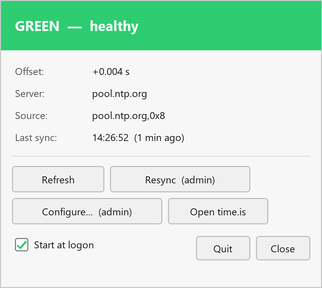
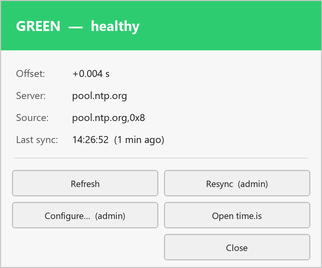
v1.2.0: update checker + auto-check, Start-at-logon in menu (default on), panel cleanup/alignment

Changed region(s): [[0.0311, 0.5672, 0.9627, 0.9851], [0.0, 0.0597, 1.0, 0.5373], [0.2174, 0.2388, 0.5901, 0.5373]]

diff --git a/make_panel_img.py b/make_panel_img.py
@@ -2,7 +2,7 @@
 from PIL import Image, ImageDraw, ImageFont
 
 S = 3                      # supersample
-W, H = 322, 288
+W, H = 322, 268
 GREEN = (46, 204, 113)
 BODY = (247, 247, 247)
 BORDER = (200, 200, 200)
@@ -29,6 +29,11 @@ def text(x, y, s, fnt, fill, anchor="la"):
     d.text((x * S, y * S), s, font=fnt, fill=fill, anchor=anchor)
 
 
+def textw(s, fnt):
+    b = d.textbbox((0, 0), s, font=fnt)
+    return (b[2] - b[0]) / S
+
+
 def button(x, y, w, h, label, fnt):
     d.rounded_rectangle([x * S, y * S, (x + w) * S, (y + h) * S], radius=3 * S,
                         fill=BTN, outline=BTN_BD, width=1 * S)
@@ -38,38 +43,34 @@ def button(x, y, w, h, label, fnt):
 # border + header
 d.rectangle([0, 0, W * S - 1, H * S - 1], outline=BORDER, width=1 * S)
 d.rectangle([1 * S, 1 * S, (W - 1) * S, 50 * S], fill=GREEN)
-text(15, 25, "GREEN  —  healthy", font(14, bold=True), (255, 255, 255), anchor="lm")
+text(16, 25, "GREEN  —  healthy", font(14, bold=True), (255, 255, 255), anchor="lm")
 
-# readout rows
-f_lbl, f_val = font(10), font(10)
+# readout: aligned label / value columns
+f = font(10)
 rows = [("Offset:", "+0.004 s"), ("Server:", "pool.ntp.org"),
         ("Source:", "pool.ntp.org,0x8"), ("Last sync:", "14:26:52  (1 min ago)")]
-y = 64
+LABELX = 16
+valx = LABELX + max(textw(lbl, f) for lbl, _ in rows) + 14
+y = 66
 for lbl, val in rows:
-    text(15, y, lbl, f_lbl, LABEL)
-    text(92, y, val, f_val, VALUE)
+    text(LABELX, y, lbl, f, LABEL)
+    text(valx, y, val, f, VALUE)
     y += 22
 
 # separator
-d.line([12 * S, 156 * S, (W - 12) * S, 156 * S], fill=SEP, width=1 * S)
+d.line([14 * S, 158 * S, (W - 14) * S, 158 * S], fill=SEP, width=1 * S)
 
-# action buttons
-fb = font(10)
-button(12, 166, 92, 26, "Refresh", fb)
-button(110, 166, 140, 26, "Resync  (admin)", fb)
-button(12, 198, 150, 26, "Configure…  (admin)", fb)
-button(168, 198, 100, 26, "Open time.is", fb)
-
-# checkbox + quit/close
-box = 13
-by = 238
-d.rounded_rectangle([15 * S, by * S, (15 + box) * S, (by + box) * S], radius=2 * S,
-                    fill=(255, 255, 255), outline=(120, 120, 120), width=1 * S)
-d.line([(17) * S, (by + 7) * S, (20) * S, (by + 10) * S], fill=GREEN, width=2 * S)
-d.line([(20) * S, (by + 10) * S, (26) * S, (by + 3) * S], fill=GREEN, width=2 * S)
-text(34, by + int(box / 2), "Start at logon", fb, VALUE, anchor="lm")
-button(196, 236, 54, 24, "Quit", fb)
-button(256, 236, 54, 24, "Close", fb)
+# actions: uniform 2-column grid (no Quit; it's in the right-click menu)
+fb = font(9)
+gap, mx = 6, 12
+colw = (W - 2 * mx - gap) / 2
+c0, c1 = mx, mx + colw + gap
+bh, r0 = 26, 170
+button(c0, r0, colw, bh, "Refresh", fb)
+button(c1, r0, colw, bh, "Resync  (admin)", fb)
+button(c0, r0 + bh + 6, colw, bh, "Configure…  (admin)", fb)
+button(c1, r0 + bh + 6, colw, bh, "Open time.is", fb)
+button(c1, r0 + 2 * (bh + 6), colw, bh, "Close", fb)
 
 img = img.resize((W, H), Image.LANCZOS)
 img.save(r"C:\Users\David Erickson\ntp-time-sync\docs\panel.png")

diff --git a/README.md b/README.md
@@ -23,7 +23,7 @@ A single self-contained executable — **no Python, no installer, no dependencie
 3. **Windows SmartScreen** may say *"Windows protected your PC"* because the app isn't
    code-signed. Click **More info → Run anyway**. It's open source; every line is in this repo.
 4. On **Windows 11**, do the one-time step in [Make the icon visible](#make-the-icon-visible-windows-11) below.
-5. Left-click the dot to open the panel, then tick **Start at logon** to launch it automatically at boot.
+5. **Start at logon** is on by default; change it (and update checks) from the right-click menu.
 
 First run creates its settings at `%APPDATA%\NTP Time Sync\config.json`.
 
@@ -61,11 +61,13 @@ header over the live readout, with every action one click away:
 - **Resync (admin)** — `w32tm /resync /force`; opens an elevated PowerShell (UAC)
 - **Configure… (admin)** — change the NTP server, then applies it elevated (UAC)
 - **Open time.is** — browser sanity check
-- **Start at logon** — per-user autostart toggle (HKCU `Run`, no admin)
-- **Quit**
+- **Close**
 
-Right-click gives a minimal fallback menu (Open / Quit). Polling is read-only and
-runs **non-elevated**; only Resync and Configure raise a UAC prompt on demand.
+**Right-click** the dot for the rest: **Start at logon** (on by default),
+**Check for updates**, **Auto-check on startup** (off by default), and **Quit**.
+
+Polling is read-only and runs **non-elevated**; only Resync and Configure raise
+a UAC prompt on demand.
 
 ## Run from source (developers)
 